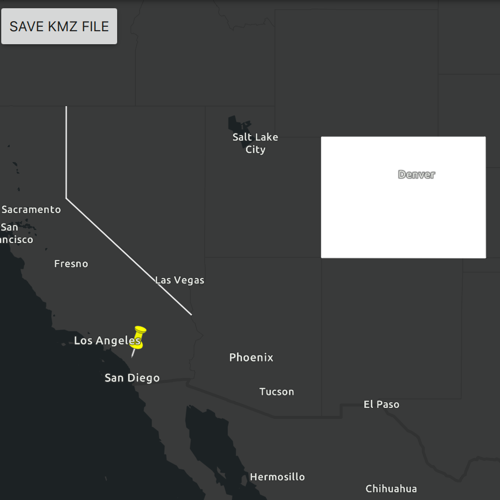
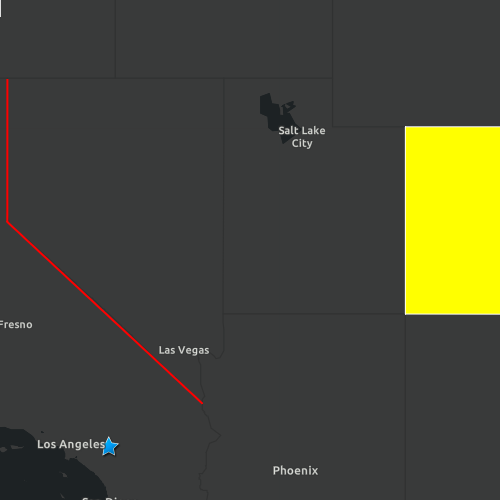
adding support for KML Styles

diff --git a/ArcGISRuntimeSDKQt_QMLSamples/Layers/CreateAndSaveKmlFile/CreateAndSaveKmlFile.qml b/ArcGISRuntimeSDKQt_QMLSamples/Layers/CreateAndSaveKmlFile/CreateAndSaveKmlFile.qml
@@ -17,7 +17,7 @@
 import QtQuick 2.6
 import QtQuick.Controls 2.12
 import Qt.labs.platform 1.1 as Dialogs
-import Esri.ArcGISRuntime 100.6
+import Esri.ArcGISRuntime 100.7
 import Esri.ArcGISExtras 1.1
 
 Rectangle {
@@ -32,41 +32,52 @@ Rectangle {
 
         Map {
             BasemapDarkGrayCanvasVector {}
-        }
 
-        Button {
-            anchors{
-                left: parent.left
-                top: parent.top
-                margins: 3
-            }
-            text: qsTr("Save kmz file")
-
-            onClicked: {
-                fileDialog.open();
-            }
-        }
-    }
-
-    KmlDataset {
-        id: kmlDataset
-        KmlDocument {
-            id: kmlDocument
-            name: qsTr("KML Sample Document")
-            onSaveStatusChanged: {
-                if (saveStatus === Enums.TaskStatusErrored) {
-                    console.log(`Error: ${error.message} - ${error.additionalMessage}`);
-                }
-                else if (saveStatus === Enums.TaskStatusCompleted) {
-                    saveCompleteDialog.open();
+            // add a KML Layer
+            KmlLayer {
+                KmlDataset {
+                    id: kmlDataset
+                    KmlDocument {
+                        id: kmlDocument
+                        name: qsTr("KML Sample Document")
+                        onSaveStatusChanged: {
+                            if (saveStatus === Enums.TaskStatusErrored) {
+                                console.log(`Error: ${error.message} - ${error.additionalMessage}`);
+                            }
+                            else if (saveStatus === Enums.TaskStatusCompleted) {
+                                saveCompleteDialog.open();
+                            }
+                        }
+                    }
                 }
             }
+
+            // set initial extent
+            ViewpointExtent {
+                Envelope {
+                    id: myViewpoint
+                    xMin: -123.0
+                    yMin: 33.5
+                    xMax: -101.0
+                    yMax: 42.0
+                    spatialReference: SpatialReference { wkid: 4326 }
+                }
+            }
         }
+
     }
 
-    KmlLayer {
-        id: kmlLayer
-        dataset: kmlDataset
+    Button {
+        anchors{
+            left: parent.left
+            top: parent.top
+            margins: 3
+        }
+        text: qsTr("Save kmz file")
+
+        onClicked: {
+            fileDialog.open();
+        }
     }
 
     PolygonBuilder {
@@ -83,15 +94,6 @@ Rectangle {
         id: point
         x: -117.195800
         y: 34.056295
-        spatialReference: SpatialReference { wkid: 4326 }
-    }
-
-    Envelope {
-        id: myViewpoint
-        xMin: -123.0
-        yMin: 33.5
-        xMax: -101.0
-        yMax: 42.0
         spatialReference: SpatialReference { wkid: 4326 }
     }
 
@@ -129,12 +131,39 @@ Rectangle {
         }
     }
 
+    KmlStyle {
+        id: pointStyle
+        KmlIconStyle {
+            icon: KmlIcon {
+                url: "https://static.arcgis.com/images/Symbols/Shapes/BlueStarLargeB.png"
+            }
+            scale: 1
+        }
+    }
+
+    KmlStyle {
+        id: lineStyle
+        KmlLineStyle {
+            color: "red"
+            width: 2
+        }
+    }
+
+    KmlStyle {
+        id: polygonStyle
+        KmlPolygonStyle {
+            color: "yellow"
+        }
+    }
+
     Component.onCompleted: {
         createPolygon();
         createPolyline();
-        addToKmlDocument(point);
-        addKmlLayer();
-        mapView.setViewpointGeometryAndPadding(myViewpoint, 10);
+        createPoint();
+    }
+
+    function createPoint() {
+        addToKmlDocument(point, pointStyle);
     }
 
     function createPolygon() {
@@ -142,27 +171,24 @@ Rectangle {
         polygonBuilder.addPointXY(-102.047, 40.998);
         polygonBuilder.addPointXY(-102.037, 36.989);
         polygonBuilder.addPointXY(-109.048, 36.998);
-        addToKmlDocument(polygonBuilder.geometry);
+        addToKmlDocument(polygonBuilder.geometry, polygonStyle);
     }
 
     function createPolyline() {
         polylineBuilder.addPointXY(-119.992, 41.989);
         polylineBuilder.addPointXY(-119.994, 38.994);
         polylineBuilder.addPointXY(-114.620, 35.0);
-        addToKmlDocument(polylineBuilder.geometry);
+        addToKmlDocument(polylineBuilder.geometry, lineStyle);
     }
 
-    function addToKmlDocument(geometry) {
-        let kmlGeometry = ArcGISRuntimeEnvironment.createObject("KmlGeometry", {
-                                                                geometry: geometry,
-                                                                altitudeMode: Enums.KmlAltitudeModeClampToGround
-                                                            });
+    function addToKmlDocument(geometry, kmlStyle) {
+        const kmlGeometry = ArcGISRuntimeEnvironment.createObject("KmlGeometry", {
+                                                                      geometry: geometry,
+                                                                      altitudeMode: Enums.KmlAltitudeModeClampToGround
+                                                                  });
         let kmlPlacemark = ArcGISRuntimeEnvironment.createObject("KmlPlacemark");
         kmlPlacemark.geometriesListModel.append(kmlGeometry);
+        kmlPlacemark.style = kmlStyle;
         kmlDocument.childNodesListModel.append(kmlPlacemark);
-    }
-
-    function addKmlLayer() {
-        mapView.map.operationalLayers.append(kmlLayer);
     }
 }

diff --git a/ArcGISRuntimeSDKQt_CppSamples/Layers/CreateAndSaveKmlFile/CreateAndSaveKmlFile.cpp b/ArcGISRuntimeSDKQt_CppSamples/Layers/CreateAndSaveKmlFile/CreateAndSaveKmlFile.cpp
@@ -28,6 +28,11 @@
 #include "KmlNodeListModel.h"
 #include "KmlDataset.h"
 #include "KmlLayer.h"
+#include "KmlLineStyle.h"
+#include "KmlIcon.h"
+#include "KmlIconStyle.h"
+#include "KmlPolygonStyle.h"
+#include "KmlStyle.h"
 
 using namespace Esri::ArcGISRuntime;
 
@@ -37,8 +42,14 @@ CreateAndSaveKmlFile::CreateAndSaveKmlFile(QObject* parent /* = nullptr */):
   m_kmlDocument(new KmlDocument(this)),
   m_point(createPoint()),
   m_polyline(createPolyline()),
-  m_polygon(createPolygon())
+  m_polygon(createPolygon()),
+  m_pointStyle(createPointStyle()),
+  m_lineStyle(createLineStyle()),
+  m_polygonStyle(createPolygonStyle())
 {
+  // set initial viewpoint
+  m_map->setInitialViewpoint(Viewpoint(createEnvelope()));
+
   connect(m_map, &Map::doneLoading, this, [this](Error e)
   {
     if (!e.isEmpty())
@@ -122,20 +133,58 @@ Geometry CreateAndSaveKmlFile::createEnvelope() const
   return Envelope(xMin, yMin, xMax, yMax, spatialRef);
 }
 
-void CreateAndSaveKmlFile::addGraphics()
+KmlStyle* CreateAndSaveKmlFile::createPointStyle()
 {
-  addToKmlDocument(m_point);
-  addToKmlDocument(m_polyline);
-  addToKmlDocument(m_polygon);
+  // Create Icon Style
+  KmlIcon* icon = new KmlIcon(QUrl("https://static.arcgis.com/images/Symbols/Shapes/BlueStarLargeB.png"), this);
+  KmlIconStyle* iconStyle = new KmlIconStyle(icon, 1.0, this);
 
-  m_mapView->map()->operationalLayers()->append(m_kmlLayer);
-  m_mapView->setViewpointGeometry(createEnvelope(), 10);
+  // Create KmlStyle
+  KmlStyle* kmlStyle = new KmlStyle(this);
+  kmlStyle->setIconStyle(iconStyle);
+
+  return kmlStyle;
 }
 
-void CreateAndSaveKmlFile::addToKmlDocument(const Esri::ArcGISRuntime::Geometry& geometry)
+KmlStyle* CreateAndSaveKmlFile::createLineStyle()
+{
+  // Create Line Style
+  KmlLineStyle* lineStyle = new KmlLineStyle(QColor(Qt::red), 2, this);
+
+  // Create KmlStyle
+  KmlStyle* kmlStyle = new KmlStyle(this);
+  kmlStyle->setLineStyle(lineStyle);
+
+  return kmlStyle;
+}
+
+KmlStyle* CreateAndSaveKmlFile::createPolygonStyle()
+{
+  // Create Polygon Style
+  KmlPolygonStyle* polygonStyle = new KmlPolygonStyle(QColor(Qt::yellow), this);
+
+  // Create KmlStyle
+  KmlStyle* kmlStyle = new KmlStyle(this);
+  kmlStyle->setPolygonStyle(polygonStyle);
+
+  return kmlStyle;
+}
+
+void CreateAndSaveKmlFile::addGraphics()
+{
+  addToKmlDocument(m_point, m_pointStyle);
+  addToKmlDocument(m_polyline, m_lineStyle);
+  addToKmlDocument(m_polygon, m_polygonStyle);
+
+  m_mapView->map()->operationalLayers()->append(m_kmlLayer);
+}
+
+void CreateAndSaveKmlFile::addToKmlDocument(const Geometry& geometry, KmlStyle* kmlStyle)
 {
   const KmlGeometry kmlGeometry = KmlGeometry(geometry, KmlAltitudeMode::ClampToGround);
-  m_kmlDocument->childNodesListModel()->append(new KmlPlacemark(kmlGeometry, this));
+  KmlPlacemark* placemark = new KmlPlacemark(kmlGeometry, this);
+  placemark->setStyle(kmlStyle);
+  m_kmlDocument->childNodesListModel()->append(placemark);
 }
 
 void CreateAndSaveKmlFile::saveKml(const QUrl& url)

diff --git a/ArcGISRuntimeSDKQt_CppSamples/Layers/CreateAndSaveKmlFile/CreateAndSaveKmlFile.h b/ArcGISRuntimeSDKQt_CppSamples/Layers/CreateAndSaveKmlFile/CreateAndSaveKmlFile.h
@@ -26,6 +26,7 @@ class MapQuickView;
 class KmlDocument;
 class KmlDataset;
 class KmlLayer;
+class KmlStyle;
 }
 }
 
@@ -68,6 +69,9 @@ private:
   Esri::ArcGISRuntime::Point m_point;
   Esri::ArcGISRuntime::Polyline m_polyline;
   Esri::ArcGISRuntime::Polygon m_polygon;
+  Esri::ArcGISRuntime::KmlStyle* m_pointStyle = nullptr;
+  Esri::ArcGISRuntime::KmlStyle* m_lineStyle = nullptr;
+  Esri::ArcGISRuntime::KmlStyle* m_polygonStyle = nullptr;
 
   bool m_busy = false;
 
@@ -75,9 +79,12 @@ private:
   Esri::ArcGISRuntime::Geometry createPolyline() const;
   Esri::ArcGISRuntime::Geometry createPolygon() const;
   Esri::ArcGISRuntime::Geometry createEnvelope() const;
+  Esri::ArcGISRuntime::KmlStyle* createPointStyle();
+  Esri::ArcGISRuntime::KmlStyle* createLineStyle();
+  Esri::ArcGISRuntime::KmlStyle* createPolygonStyle();
 
   void addGraphics();
-  void addToKmlDocument(const Esri::ArcGISRuntime::Geometry& geometry);
+  void addToKmlDocument(const Esri::ArcGISRuntime::Geometry& geometry, Esri::ArcGISRuntime::KmlStyle* kmlStyle);
 };
 
 #endif // CREATEANDSAVEKMLFILE_H

diff --git a/ArcGISRuntimeSDKQt_CppSamples/Layers/CreateAndSaveKmlFile/README.md b/ArcGISRuntimeSDKQt_CppSamples/Layers/CreateAndSaveKmlFile/README.md
@@ -18,8 +18,9 @@ Application opens to a view of the Southwestern United States. Click on the "Sav
 2. Create a `Graphic` for each and add it to the `GraphicsOverlay`
 3. Create a `KmlGeometry` object using the `Geometry` from the point, line, and polygon.
 4. Create a `KmlPlacemark` for each kml geometry.
-5. Add all three kml placemarks to the `KmlDocument`.
-6. Save the kml document to a file using the `saveAs` function.
+5. Set a `KmlStyle` for each placemark.
+6. Add all three kml placemarks to the `KmlDocument`.
+7. Save the kml document to a file using the `saveAs` function.
 
 ## Relevant API
 
@@ -27,6 +28,11 @@ Application opens to a view of the Southwestern United States. Click on the "Sav
 * KmlGeometry
 * KmlNode::saveAs
 * KmlPlacemark
+* KmlStyle
+* KmlIconStyle
+* KmlLineStyle
+* KmlPolygonStyle
+* KmlIcon
 
 ## Tags
 

diff --git a/ArcGISRuntimeSDKQt_QMLSamples/Layers/CreateAndSaveKmlFile/README.md b/ArcGISRuntimeSDKQt_QMLSamples/Layers/CreateAndSaveKmlFile/README.md
@@ -18,8 +18,9 @@ Application opens to a view of the Southwestern United States. Click on the "Sav
 2. Create a `Graphic` for each and add it to the `GraphicsOverlay`
 3. Create a `KmlGeometry` object using the `Geometry` from the point, line, and polygon.
 4. Create a `KmlPlacemark` for each kml geometry.
-5. Add all three kml placemarks to the `KmlDocument`.
-6. Save the kml document to a file using the `saveAs` function.
+5. Set a `KmlStyle` for each placemark.
+6. Add all three kml placemarks to the `KmlDocument`.
+7. Save the kml document to a file using the `saveAs` function.
 
 ## Relevant API
 
@@ -27,6 +28,11 @@ Application opens to a view of the Southwestern United States. Click on the "Sav
 * KmlGeometry
 * KmlNode.saveAs
 * KmlPlacemark
+* KmlStyle
+* KmlIconStyle
+* KmlLineStyle
+* KmlPolygonStyle
+* KmlIcon
 
 ## Tags
 
